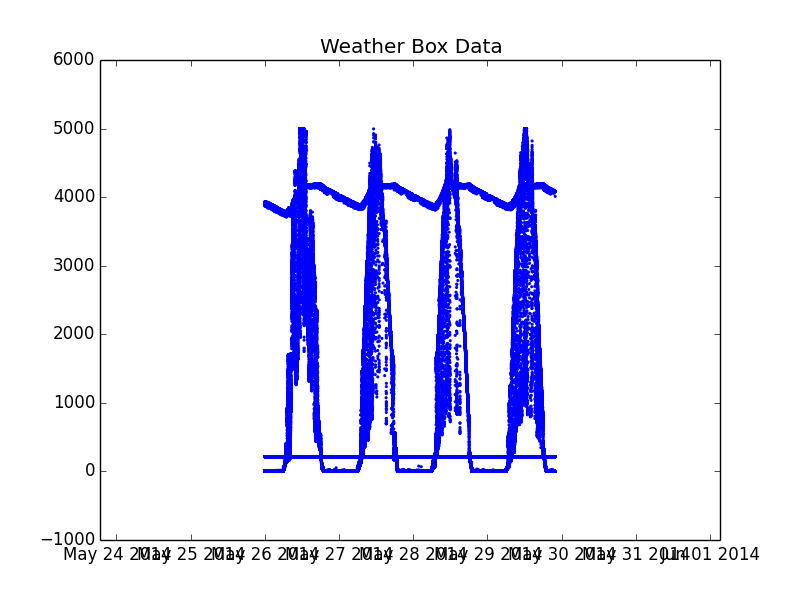
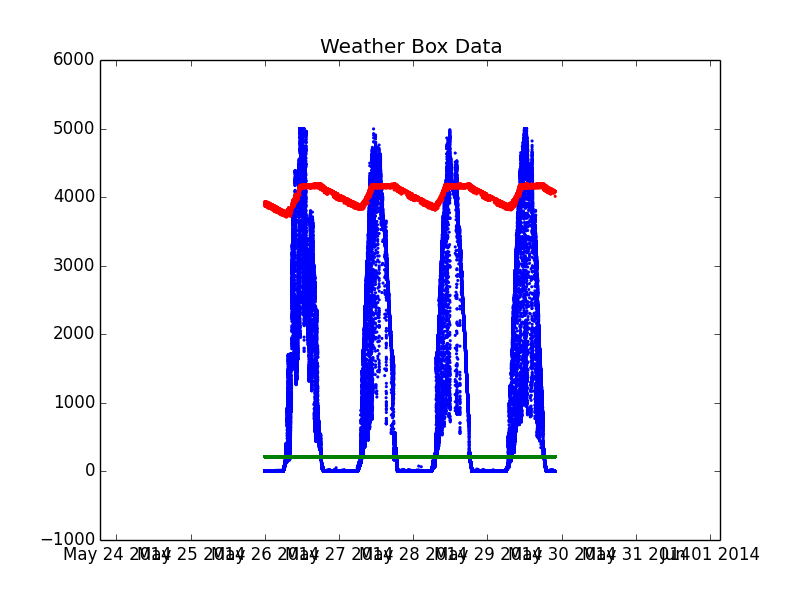
Color coded

Changed region(s): [[0.3125, 0.3, 0.7188, 0.36], [0.3125, 0.75, 0.6875, 0.78]]

diff --git a/control-sync/plotting/Data_Plot.py b/control-sync/plotting/Data_Plot.py
@@ -3,6 +3,7 @@ import csv
 import numpy
 import operator
 import datetime
+import itertools
 import matplotlib.pyplot as plt
 
 ##########Test functions##########
@@ -128,6 +129,10 @@ ConvertedTime = []
 x = []  #Plot storage for Dates
 y = []  #Plot storage for Data
 PlotMore = True
+color = 'b'
+
+#Establish color cycle
+colors = itertools.cycle(['r', 'g', 'y', 'c', 'm', 'k', 'b'])
 
 #Open Data File
 datafile = open('215_data.csv', 'r')
@@ -166,7 +171,7 @@ while(PlotMore):
 	y = gather_chosen(ChosenData, BeginIndex, EndIndex)
 
 	#Plot the data
-	plt.scatter(x,y,marker='.', edgecolors='none')
+	plt.scatter(x, y, c = color, marker='.', edgecolors='none')
 	plt.title('Weather Box Data')
 
 	#Plot More?
@@ -178,12 +183,17 @@ while(PlotMore):
 		#Ask for data field
 		field = input('Enter data field: ')
 		PlotMore = True
+		color = next(colors)
 
 	elif(response == "N" or response == "n" or response == "No"):
 
 		#End the loop
 		PlotMore = False
 
+	else:
+		
+		#Error
+		print('Invalid Response')
 
 #Save plot as .png
 plt.savefig('Data_Plot.png')
